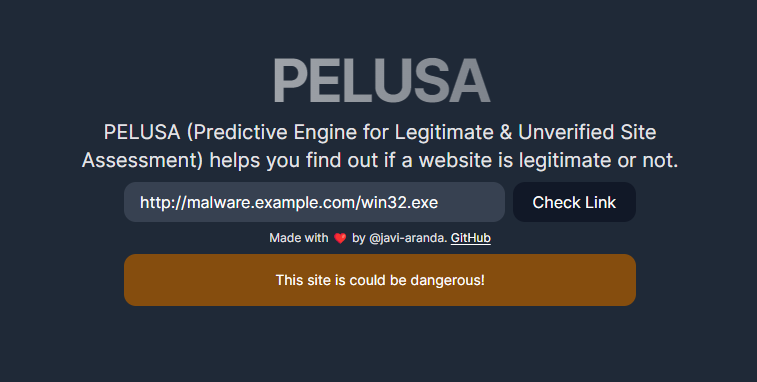
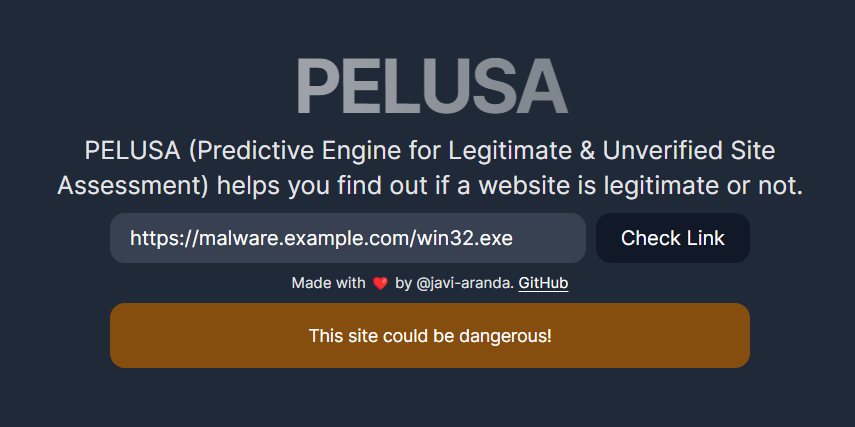
Fix typo

Changed region(s): [[0.0608, 0.3168, 0.9419, 0.8639], [0.3342, 0.1152, 0.6684, 0.288]]

diff --git a/app/components/search-form.tsx b/app/components/search-form.tsx
@@ -42,7 +42,7 @@ export default function SearchForm() {
         if (data.prediction == 1) {
           setResultMessage({
             type: "warning",
-            message: "This site is could be dangerous!",
+            message: "This site could be dangerous!",
           });
         } else {
           setResultMessage({
